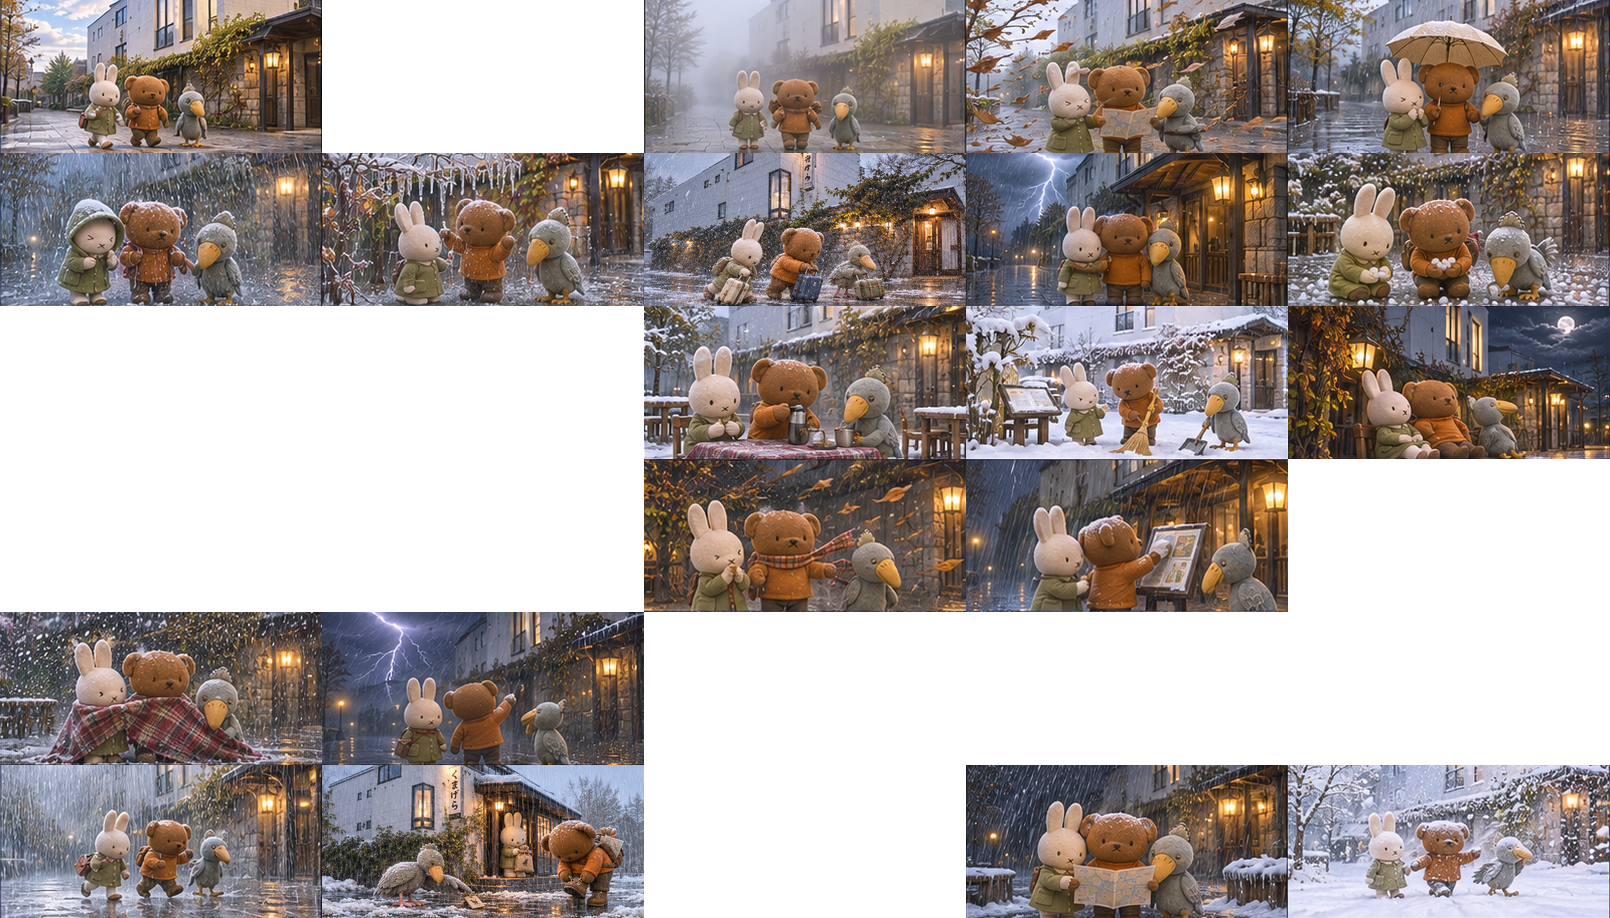
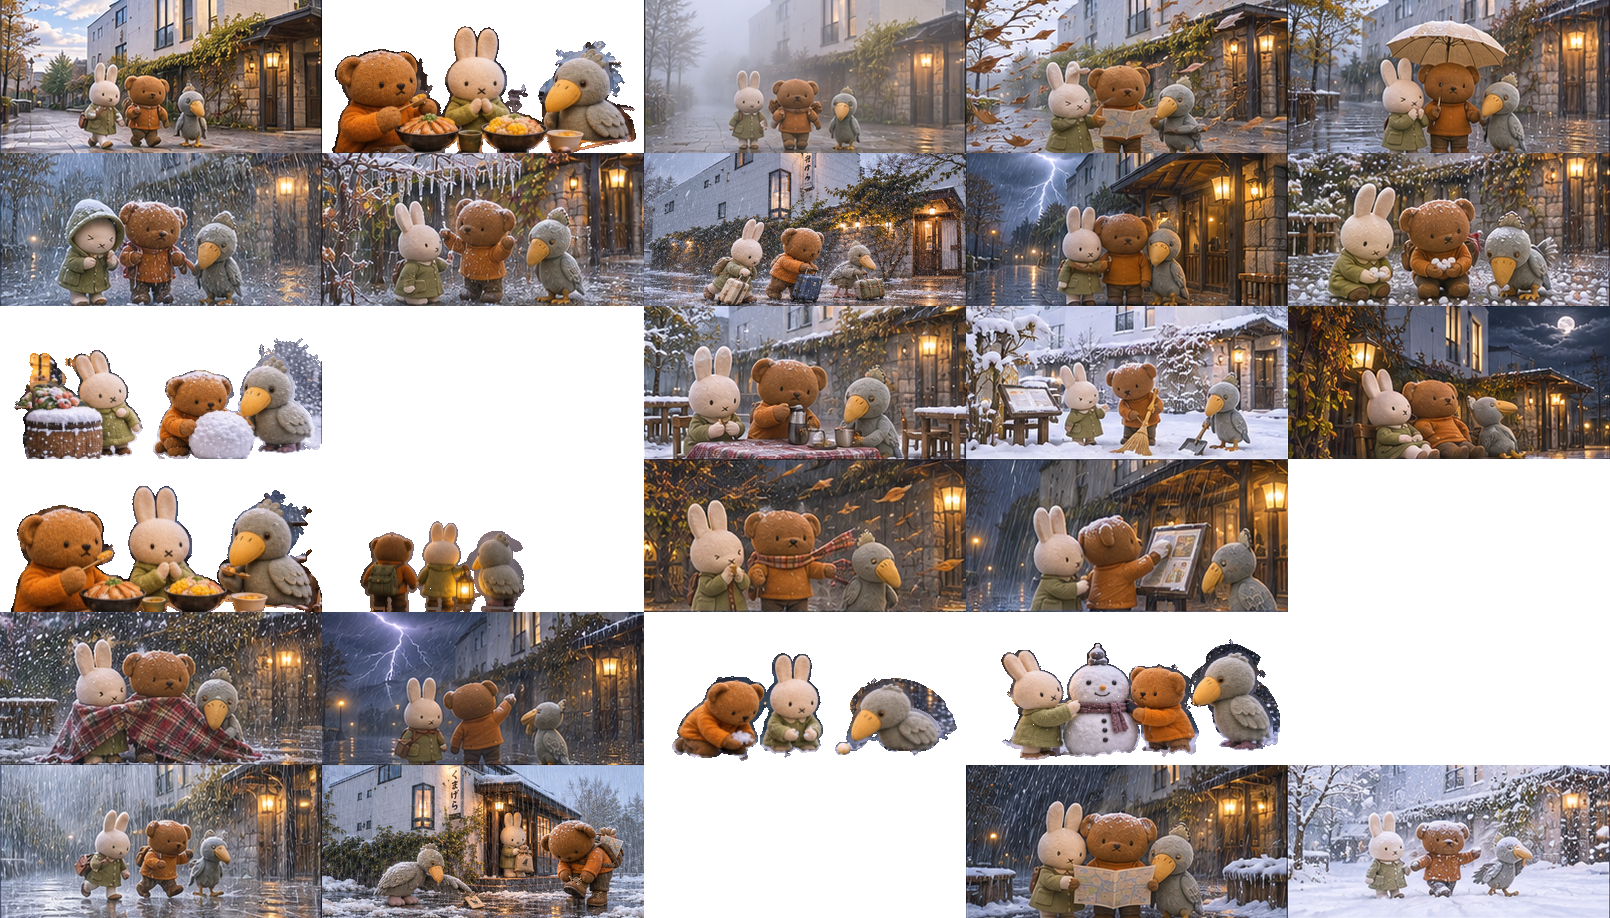
Publish 1975 verified travel weather illustrations

diff --git a/trip-scenery.js b/trip-scenery.js
@@ -117,11 +117,11 @@ const TripScenery = (() => {
     "haneda":{"rev":"627adc008342","tiles":[4,10,12]},
     "haneda-b":{"rev":"e15f40018b91","tiles":[0,1,2,4,6,9,10,12,13,15,16,19,20,22,25,26,29]},
     "hkairport":{"rev":"811bca323825","tiles":[1]},
-    "hkairport-b":{"rev":"203bb9f87c35","tiles":[1,2,3,4,5,6,7,9,10,11,12,13,15,16,18,19,20,23,24,26,27,28,29]},
+    "hkairport-b":{"rev":"0d12b2c2ab83","tiles":[1,2,3,4,5,6,7,9,10,11,12,13,14,15,16,18,19,20,23,24,25,26,27,28,29]},
     "hongkong":{"rev":"1c5206374d36","tiles":[1,3,13]},
-    "hongkong-b":{"rev":"7c6fab58c6f8","tiles":[0,3,4,5,6,8,9,10,22,24,27,28,29]},
+    "hongkong-b":{"rev":"6ba0dc38cbdc","tiles":[0,1,3,4,5,6,7,8,9,10,11,12,14,17,18,19,22,24,26,27,28,29]},
     "ikebukuro":{"rev":"3eac653f613a","tiles":[6,7,12,17,18]},
-    "ikebukuro-b":{"rev":"ec6b261a9e95","tiles":[6,7,9,13,14,15,16,18,19,21,23,27,29]},
+    "ikebukuro-b":{"rev":"b184a7c5868c","tiles":[0,1,2,4,5,6,7,9,13,14,15,16,18,19,21,23,27,29]},
     "kushiro":{"rev":"ba38cfd09b0c","tiles":[0,3,7,16,18,19]},
     "kushiro-b":{"rev":"6a5d2d2b4969","tiles":[0,1,3,4,6,7,8,9,12,13,14,15,17,18,20,26,27,28,29]},
     "kussharo":{"rev":"93c2e99f0902","tiles":[4,7]},
@@ -139,13 +139,13 @@ const TripScenery = (() => {
     "rusutsu":{"rev":"15835914c6d3","tiles":[7,11,13,16,18]},
     "rusutsu-b":{"rev":"5ddac500da59","tiles":[4,6,25,27]},
     "sapporo":{"rev":"e925743f436f","tiles":[9]},
-    "sapporo-b":{"rev":"962a2dcb4869","tiles":[0,5,6,7,9,13,14,15,18,24,25,26,27,28]},
+    "sapporo-b":{"rev":"d0d864fb4a6f","tiles":[0,5,6,7,9,13,14,15,18,21,24,25,26,27,28]},
     "spot-027c9d1e1":{"rev":"ffc74a33bb42","tiles":[0,9,16]},
     "spot-027c9d1e1-b":{"rev":"3a617ddcc12b","tiles":[0,1,2,3,6,7,8,9,10,11,12,13,17,18,19,20,21,22,24,25,26,29]},
     "spot-06158d8b5":{"rev":"a04051825e6b","tiles":[10,12,13]},
-    "spot-06158d8b5-b":{"rev":"34c22bb59fbf","tiles":[1,2,3,5,7,8,9,10,12,13,15,16,17,19,20,21,22,23,25,26,28,29]},
+    "spot-06158d8b5-b":{"rev":"d17e3d0b2831","tiles":[1,2,3,4,5,7,8,9,10,12,13,15,16,17,18,19,20,21,22,23,25,26,28,29]},
     "spot-10e7818ff":{"rev":"b81ab9cee190","tiles":[7]},
-    "spot-10e7818ff-b":{"rev":"023af908f032","tiles":[0,1,2,4,5,7,8,9,10,11,13,14,15,19,20,21,24,25,26,27,28]},
+    "spot-10e7818ff-b":{"rev":"4badf5486baf","tiles":[0,1,2,3,4,5,6,7,8,9,10,11,12,13,14,15,17,18,19,20,21,23,24,25,26,27,28,29]},
     "spot-1163438dd":{"rev":"c88b184958b6","tiles":[0,4,5,6,7,8,9,10,11,12,13,14,15,16]},
     "spot-1163438dd-b":{"rev":"e5d1320756fa","tiles":[0,3,7,10,13,14,17,18,20,22,25,27,28]},
     "spot-147b71db6":{"rev":"416d411bcde1","tiles":[7,9]},
@@ -156,7 +156,7 @@ const TripScenery = (() => {
     "spot-1d625ae4f":{"rev":"d953b4ddb572","tiles":[13]},
     "spot-1d625ae4f-b":{"rev":"37f003a606e7","tiles":[0,1,2,3,4,5,6,7,8,9,10,11,12,13,17,19,21,22,23,25,26,27,28,29]},
     "spot-1f13a90b8":{"rev":"7c6cfdd1cf96","tiles":[0,3,5,7,9,10,13,14,15,16,18,19]},
-    "spot-1f13a90b8-b":{"rev":"d10fde68ab2a","tiles":[0,1,3,4,5,6,7,8,9,12,13,14,17,18,20,21,22,23,25,26,27,28,29]},
+    "spot-1f13a90b8-b":{"rev":"cd8b39098155","tiles":[0,1,3,4,5,6,7,8,9,10,12,13,14,15,16,17,18,20,21,22,23,25,26,27,28,29]},
     "spot-266ac0336":{"rev":"016e874e488a","tiles":[0,3,4,5,6,7,8,9,10,11,12,13,14,15,16,18,19]},
     "spot-266ac0336-b":{"rev":"8c9f89513548","tiles":[0,1,2,3,4,5,6,7,8,9,10,11,12,13,14,15,16,17,18,19,20,21,22,23,24,25,26,27,28,29]},
     "spot-269608d5a":{"rev":"fe0e7d68ff92","tiles":[2,14]},
@@ -165,47 +165,48 @@ const TripScenery = (() => {
     "spot-2e38dcad4":{"rev":"de1a9beaeb6c","tiles":[11,12]},
     "spot-2e38dcad4-b":{"rev":"e18c8743b9d2","tiles":[0,1,2,5,6,7,9,10,12,14,15,16,17,25,27]},
     "spot-31c4556cc":{"rev":"a81956a4427b","tiles":[13,14]},
-    "spot-31c4556cc-b":{"rev":"3e049f8e1ba9","tiles":[0,1,2,5,6,7,9,10,11,15,16,18,19,20,21,22,23,24,25,26,27,28,29]},
-    "spot-330159020-b":{"rev":"ce4efc4ec4d9","tiles":[0,7,10,17,22,25,29]},
+    "spot-31c4556cc-b":{"rev":"fad5c2f8ad26","tiles":[0,1,2,3,5,6,7,8,9,10,11,12,13,14,15,16,17,18,19,20,21,22,23,24,25,26,27,28,29]},
+    "spot-330159020-b":{"rev":"27f5305b8a80","tiles":[0,7,8,10,17,22,25,29]},
     "spot-33cad23f7":{"rev":"7e078e457fee","tiles":[7]},
-    "spot-33cad23f7-b":{"rev":"05dd32216d98","tiles":[0,1,3,4,5,6,8,9,12,13,14,15,17,20,21,23,25,26,27,28,29]},
+    "spot-33cad23f7-b":{"rev":"07c689f38877","tiles":[0,1,2,3,4,5,6,8,9,11,12,13,14,15,17,20,21,23,24,25,26,27,28,29]},
     "spot-3c6782d38":{"rev":"95e40e1907f0","tiles":[13,14]},
-    "spot-3c6782d38-b":{"rev":"f1f0a96ffd0a","tiles":[0,1,2,4,5,6,7,8,9,10,12,13,15,16,17,18,19,20,21,22,23,24,25,27,28,29]},
+    "spot-3c6782d38-b":{"rev":"25bb671c7c46","tiles":[0,1,2,3,4,5,6,7,8,9,10,11,12,13,14,15,16,17,18,19,20,21,22,23,24,25,27,28,29]},
     "spot-3f5a2f8fc":{"rev":"f086f04ef697","tiles":[0,1,2,3,7,13,16,17,18,19]},
-    "spot-3f5a2f8fc-b":{"rev":"ff81a2823c9c","tiles":[0,1,3,4,5,6,7,8,9,10,12,13,14,15,17,18,19,20,21,22,23,25,26,27,28,29]},
+    "spot-3f5a2f8fc-b":{"rev":"5992284cdaf4","tiles":[0,1,3,4,5,6,7,8,9,10,12,13,14,15,16,17,18,19,20,21,22,23,25,26,27,28,29]},
     "spot-3fb8e59e3":{"rev":"c785d47e5bd2","tiles":[0,3,4,5,6,7,8,10,11,12,14,15,16,19]},
-    "spot-3fb8e59e3-b":{"rev":"102943bacdc5","tiles":[0,2,3,4,5,6,7,8,9,12,13,14,17,18,20,21,25,26,28,29]},
+    "spot-3fb8e59e3-b":{"rev":"ca1211645fdc","tiles":[0,1,2,3,4,5,6,7,8,9,10,12,13,14,15,16,17,18,20,21,22,23,25,26,28,29]},
     "spot-41089f741":{"rev":"8e1833296fca","tiles":[10]},
     "spot-41089f741-b":{"rev":"8a60b7fba5e2","tiles":[0,1,2,4,5,8,9,10,11,12,13,14,15,16,17,18,20,21,24,25,26,27,28]},
     "spot-4238daf29":{"rev":"988d0f0b54b1","tiles":[0,2,4,5,6,7,8,9,10,11,12,13,14,15,17,18]},
     "spot-4238daf29-b":{"rev":"9ce5ea3f7159","tiles":[0,1,2,3,4,5,6,7,8,9,10,11,12,13,14,15,16,17,18,19,20,21,22,23,24,25,26,27,28,29]},
     "spot-4398c48a7":{"rev":"717ad5046dbd","tiles":[9,11,15]},
-    "spot-4398c48a7-b":{"rev":"b16c31167c81","tiles":[7,8,9,10,12]},
+    "spot-4398c48a7-b":{"rev":"6c84d352d7bf","tiles":[7,8,9,10,12,13,15,16,21,22,23,24,25,26,27,29]},
     "spot-46fc6bef6":{"rev":"975e8b2c7046","tiles":[7]},
+    "spot-46fc6bef6-b":{"rev":"c039bbd9071b","tiles":[0,1,3,13,14,15,16,17,18,19,20,21,22,23,24]},
     "spot-4732296ba":{"rev":"b50dbc725b27","tiles":[12,13]},
     "spot-495afce62":{"rev":"8199c54fe843","tiles":[14]},
-    "spot-495afce62-b":{"rev":"c0a985708260","tiles":[16,17,19,20,21,22]},
+    "spot-495afce62-b":{"rev":"2cf1bea1101b","tiles":[16,17,19,20,21,22,23]},
     "spot-49779f027":{"rev":"5e265107b247","tiles":[7,12,14]},
     "spot-51652ebdc":{"rev":"adf2df6853ff","tiles":[9,13]},
     "spot-54f5ce43e":{"rev":"7b3805db985d","tiles":[16]},
     "spot-569b08bba":{"rev":"081b3124469c","tiles":[4,5,7,8,10,12,14]},
-    "spot-569b08bba-b":{"rev":"e2c412a62e39","tiles":[0,1,3,4,5,6,8,9,10,13,14,15,17,18,19,20,21,23,25,26,27,28,29]},
+    "spot-569b08bba-b":{"rev":"190b189d2cb7","tiles":[0,1,2,3,4,5,6,8,9,10,13,14,15,16,17,18,19,20,21,22,23,24,25,26,27,28,29]},
     "spot-59c3d0ebd":{"rev":"7f8a63b309a1","tiles":[2,9,11,13,17]},
     "spot-5df3b4a31":{"rev":"99a3dba5bf36","tiles":[4]},
     "spot-627afeabe":{"rev":"852212a79865","tiles":[0,3,4,6,7,8,10,11,12,13,14,16,19]},
     "spot-627afeabe-b":{"rev":"83191e3b0fba","tiles":[0,2,3,4,5,6,7,9,10,11,13,14,15,16,17,19,20,21,22,23,24,25,26,27,28,29]},
     "spot-628c4952e":{"rev":"b41c8cc7518c","tiles":[4,6,7,8,9,10,11,12,13,15]},
-    "spot-628c4952e-b":{"rev":"113af7333bba","tiles":[0,1,3,4,5,8,10,13,14,17,18,19,21,22,23,25,26,27,28,29]},
-    "spot-66c6acb84":{"rev":"36371ac9b8be","tiles":[0,2,4,5,6,7,8,10,12,13,14,16]},
-    "spot-66c6acb84-b":{"rev":"e69077b38d40","tiles":[0,1,3,4,6,7,8,10,12,13,14,15,16,17,18,19,20,21,23,25,26,27,28,29]},
+    "spot-628c4952e-b":{"rev":"bf3233d2cc5e","tiles":[0,1,2,3,4,5,6,7,8,10,12,13,14,16,17,18,19,20,21,22,23,25,26,27,28,29]},
+    "spot-66c6acb84":{"rev":"624503027c3e","tiles":[0,2,4,5,6,7,8,10,12,13,14,16]},
+    "spot-66c6acb84-b":{"rev":"ab8bb7c1061e","tiles":[0,1,2,3,4,6,7,8,10,12,13,14,15,16,17,18,19,20,21,22,23,25,26,27,28,29]},
     "spot-697bbef9b":{"rev":"ffd99d9396d7","tiles":[0,1,2,3,4,5,6,8,9,12,13,16,17,18,19]},
-    "spot-697bbef9b-b":{"rev":"a19553935720","tiles":[0,1,2,3,4,5,6,7,8,9,10,12,13,14,15,17,18,19,20,21,22,23,25,26,27,28,29]},
+    "spot-697bbef9b-b":{"rev":"ade68f67054d","tiles":[0,1,2,3,4,5,6,7,8,9,10,11,12,13,14,15,16,17,18,19,20,21,22,23,24,25,26,27,28,29]},
     "spot-78367cc4f":{"rev":"338311576cd1","tiles":[13,15]},
     "spot-78367cc4f-b":{"rev":"0caceddfac3c","tiles":[0,1,2,3,4,5,6,7,8,9,10,11,12,13,14,15,16,17,18,19,20,21,22,23,24,25,26,27,28,29]},
     "spot-7955326ed":{"rev":"95718cba0321","tiles":[0,5,6,8,10,14]},
     "spot-7955326ed-b":{"rev":"92fddc408d2d","tiles":[4,13,19,21,22,23,25,28,29]},
     "spot-79865f593":{"rev":"68a20e51f5c4","tiles":[0,8,9,12,13,16]},
-    "spot-79865f593-b":{"rev":"3abe5e9e4b19","tiles":[0,1,3,4,5,6,7,8,9,10,12,13,14,15,17,18,19,20,21,22,23,25,26,27,28,29]},
+    "spot-79865f593-b":{"rev":"ab855e3e141f","tiles":[0,1,2,3,4,5,6,7,8,9,10,12,13,14,15,17,18,19,20,21,22,23,25,26,27,28,29]},
     "spot-7c1b27ec2":{"rev":"a793d4916773","tiles":[4,7]},
     "spot-7c1b27ec2-b":{"rev":"ae49b1b2941b","tiles":[0,1,2,3,4,6,7,8,9,10,12,13,14,15,16,17,18,19,20,21,22,23,24,25,26,27,28,29]},
     "spot-7fef43934":{"rev":"8d9ca06408b6","tiles":[9,13,18]},
@@ -213,17 +214,18 @@ const TripScenery = (() => {
     "spot-83a57353c":{"rev":"e5d2d321ff33","tiles":[7,13]},
     "spot-83a57353c-b":{"rev":"e13d4fb73a7a","tiles":[0,1,2,5,6,7,8,9,10,12,13,15,16,18,19,20,21,22,25,26,27,28,29]},
     "spot-86577f3e8":{"rev":"cf23b9d582dc","tiles":[7]},
-    "spot-86577f3e8-b":{"rev":"99540c9fe6a6","tiles":[11,12]},
+    "spot-86577f3e8-b":{"rev":"f04c2d312961","tiles":[11,12,29]},
     "spot-86b29bbb2":{"rev":"be6334feaaa8","tiles":[7,13]},
-    "spot-86b29bbb2-b":{"rev":"67db6707b3c1","tiles":[0,1,2,3,4,5]},
+    "spot-86b29bbb2-b":{"rev":"1e6d5a8033f1","tiles":[0,1,2,3,4,5,6,7,8,9,10,12,14,15,16,17,24,26,28,29]},
     "spot-881d1794c":{"rev":"a6f83018e614","tiles":[13]},
+    "spot-881d1794c-b":{"rev":"aad8fe188d51","tiles":[0,1,2,4,5]},
     "spot-885eb86b5":{"rev":"c488ce68dc31","tiles":[13]},
     "spot-89ba4f10d":{"rev":"dfea1c50ecc3","tiles":[4,7,12]},
     "spot-8f335641b":{"rev":"922d7a63f424","tiles":[7,10,13]},
     "spot-8f335641b-b":{"rev":"f50fd93e80b5","tiles":[3,4,6,10,12,13,18,24,26,27,29]},
     "spot-90e680279":{"rev":"26e33f022d33","tiles":[11]},
     "spot-986c13ff5":{"rev":"ce3ac4cbcc9f","tiles":[0,3,7,9,13,16]},
-    "spot-986c13ff5-b":{"rev":"4c16db728ff5","tiles":[0,1,3,4,5,6,7,9,10,11,13,14,15,16,17,18,19,22,25,27,29]},
+    "spot-986c13ff5-b":{"rev":"0817c94bd73c","tiles":[0,1,3,4,5,6,7,9,10,11,12,13,14,15,16,17,18,19,22,25,27,29]},
     "spot-9f53c40a2-b":{"rev":"de3b75298deb","tiles":[1,3,4,5,6,7,10,12,13,14,15,17,18,19,21,26,27,28,29]},
     "spot-a52910691":{"rev":"9fc6c3b9342b","tiles":[0,3,4,6,7,10,13,14,16,19]},
     "spot-a52910691-b":{"rev":"9338e3d73beb","tiles":[0,1,3,4,5,6,7,8,9,10,11,13,14,16,18,21,22,23,24,25,26,27,28]},
@@ -233,7 +235,7 @@ const TripScenery = (() => {
     "spot-ac4485fba-b":{"rev":"514d5f65b3af","tiles":[0,1,2,4,5,7,8,12,14,16,19,20,21]},
     "spot-acfec276c-b":{"rev":"51d47d16490d","tiles":[1,2,3,4,5,6,8,9,12,16,18,23,24,29]},
     "spot-b238fe7ba":{"rev":"34e2069181cf","tiles":[5]},
-    "spot-b531cf1e9":{"rev":"bce3980eb33a","tiles":[9,11,14]},
+    "spot-b531cf1e9":{"rev":"89fd0a7e4191","tiles":[4,7,9,11,14]},
     "spot-bbf221799":{"rev":"d18150d38f81","tiles":[13]},
     "spot-bbf221799-b":{"rev":"96608f65ce44","tiles":[0,1,3,4,5,6,7,8,9,10,12,13,14,15,17,18,19,20,21,22,23,25,26,27,28,29]},
     "spot-c01dc34a3":{"rev":"07081ae18302","tiles":[7]},
@@ -241,12 +243,12 @@ const TripScenery = (() => {
     "spot-c6a0e8931":{"rev":"b2aaa5008163","tiles":[1,4,8,11,12,17,18]},
     "spot-c6a0e8931-b":{"rev":"480171273723","tiles":[0,1,3,4,6,8,12,13,14,15,19,21,25,26,27,29]},
     "spot-c8601530f":{"rev":"7312cb0824e0","tiles":[5]},
-    "spot-cb578c594":{"rev":"f01dbf52bf5e","tiles":[8]},
+    "spot-cb578c594":{"rev":"1e194ec4407b","tiles":[8,13]},
     "spot-cc31e7e93":{"rev":"8600a27d27de","tiles":[4,5,9,10,12,15]},
     "spot-cc31e7e93-b":{"rev":"fbefb3e66eb8","tiles":[0,1,2,3,4,5,8,9,10,13,14,17,18,19,21,25,26,27,28,29]},
     "spot-ceed47a35":{"rev":"3ae5b499bf04","tiles":[1,7,12,13]},
     "spot-ceed47a35-b":{"rev":"91959746e08d","tiles":[0,1,2,3,4,5,6,8,13,14,15,17,19,21,25,27,28]},
-    "spot-d1c54f9ac":{"rev":"54ac5820a87d","tiles":[7]},
+    "spot-d1c54f9ac":{"rev":"907b79c220e6","tiles":[7,9]},
     "spot-da027a45c":{"rev":"c8dafd9e73f6","tiles":[7,14]},
     "spot-df94bb662":{"rev":"11f36ffa0d5c","tiles":[6]},
     "spot-e2a5a2ae7":{"rev":"1a46dbc7af78","tiles":[11]},
@@ -258,11 +260,12 @@ const TripScenery = (() => {
     "spot-e67324d3f":{"rev":"26c45c1deca1","tiles":[0,7,12,18,19]},
     "spot-e67324d3f-b":{"rev":"22e2ba98c0a8","tiles":[0,1,2,3,4,6,7,8,9,10,12,13,14,15,17,19,20,21,22,25,26,27,28,29]},
     "spot-e72214aac":{"rev":"a29c666aca8b","tiles":[2,3]},
+    "spot-edb6dfccc":{"rev":"ab5811cddd5c","tiles":[14]},
     "spot-eefebbe06-b":{"rev":"3c7a3eacf1f4","tiles":[16,20,21,24]},
-    "spot-efe273a59":{"rev":"dd5186451284","tiles":[13]},
+    "spot-efe273a59":{"rev":"c640fd5b1020","tiles":[11,12,13]},
     "spot-efe273a59-b":{"rev":"a7dadce29e22","tiles":[2,3,4,11,12,14,15,18,19,20,23,25,26,28,29]},
     "spot-f029df4f6":{"rev":"ee067dfb9b57","tiles":[4,5,6,8,9,11,12,14,19]},
-    "spot-f029df4f6-b":{"rev":"67c9504fae5e","tiles":[0,1,2,3,4,5,6,7,8,9,10,12,13,14,17,22,25,26,28,29]},
+    "spot-f029df4f6-b":{"rev":"95df10a6b4a3","tiles":[0,1,2,3,4,5,6,7,8,9,10,12,13,14,15,17,18,19,20,22,23,24,25,26,27,28,29]},
     "spot-f3cd60482":{"rev":"6514406cf4c0","tiles":[8]},
     "spot-f3cd60482-b":{"rev":"9bdd30d7a97b","tiles":[1,4,8,17,20,24,26,27,28]},
     "spot-f3d63d0ed":{"rev":"b2ee43e2f4b2","tiles":[13]},
@@ -270,7 +273,7 @@ const TripScenery = (() => {
     "spot-f7cce1fae":{"rev":"e0842d997b0f","tiles":[4,7,13]},
     "spot-f7cce1fae-b":{"rev":"3d2d21a5bf5c","tiles":[10,11,17,24,25,29]},
     "spot-fb71239cf":{"rev":"7a71719715e9","tiles":[7,8,13]},
-    "spot-fb71239cf-b":{"rev":"0b3240e57428","tiles":[0,1,5,6,8,9,10,14,15,16,17,20,21,23,26]},
+    "spot-fb71239cf-b":{"rev":"954ee4ba34aa","tiles":[0,1,5,6,8,9,10,14,15,16,17,19,20,21,23,26]},
     "tokachi":{"rev":"0116c84af815","tiles":[2,7]},
     "tokachi-b":{"rev":"571d05f510e3","tiles":[0,1,2,3,4,5,6,7,8,9,10,11,12,13,14,15,16,17,18,19,20,21,22,23,24,25,26,27,28]},
     "tokyo":{"rev":"6da641a43c64","tiles":[7,11]},

diff --git a/index.html b/index.html
@@ -1,5 +1,5 @@
 <!doctype html>
-<html lang="zh-HK" data-build="20261124-v71">
+<html lang="zh-HK" data-build="20261124-v72">
 <head>
 <meta charset="utf-8">
 <meta name="viewport" content="width=device-width, initial-scale=1, viewport-fit=cover">
@@ -1116,7 +1116,7 @@
       <button data-act="trips">切換旅程</button>
       <button data-act="settings">設定</button>
       <div class="verrow">
-        <div id="ver" data-build="20261124-v71" style="padding-top:0">v71</div>
+        <div id="ver" data-build="20261124-v72" style="padding-top:0">v72</div>
         <button class="forceup" data-act="forceup" type="button">強制更新</button>
       </div>
     </div>
@@ -1182,7 +1182,7 @@
   var SBK = 'sb_publishable_YROUDaSxinrbHH4g7q8gmQ_4za7Ohfj';
   var TABLE='trip_log', AI_URL=SB+'/functions/v1/trip-ai';
   var APP='trip', SESS_KEY='appSession.trip', AUTH=SB+'/functions/v1/app-auth';
-  var APP_VER='20261124-v71';
+  var APP_VER='20261124-v72';
 
   // kind：類型定義（icon、名、有冇座標、預設時間 label）
   var KINDS={
